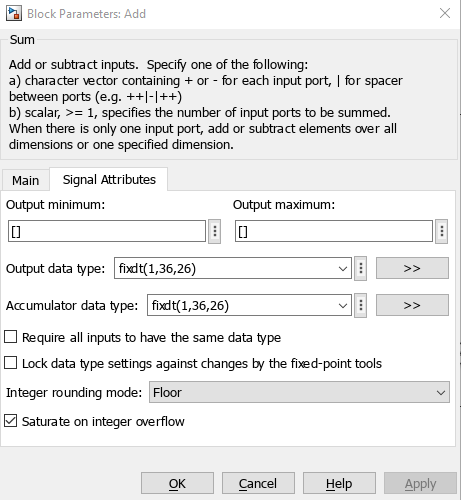
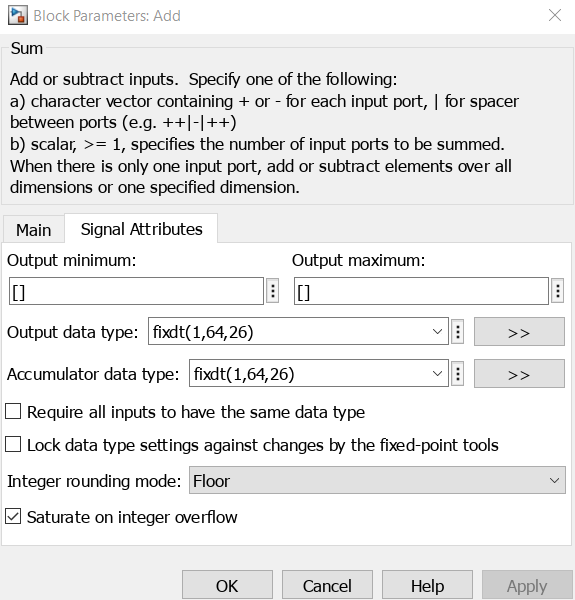
Correct PID fixed-point configuration documentation

Changed region(s): [[0.0, 0.12, 1.0, 0.9], [0.3037, 0.93, 1.0, 1.0], [0.0, 0.0, 0.3341, 0.09]]

diff --git a/examples/PIDaw/README.md b/examples/PIDaw/README.md
@@ -14,7 +14,7 @@ Mediante HDL Verifier se valida el controlador en una FPGA usando FPGA-in-the-Lo
 ## Inicio rápido
 
 1. Abrir el modelo `PID_antiwidup.slx` en MATLAB.
-2. Verificar que el controlador utilice tipos de datos en punto fijo `fixdt(1,64,26)` en entradas y señales principales.
+2. Verificar que las entradas y señales del controlador utilicen el tipo de punto fijo `fixdt(1,64,26)`.
 3. Ejecutar la simulación del lazo cerrado en Simulink.
 4. Generar el HDL del subsistema PID con HDL Coder.
 5. Crear el bloque FIL con HDL Verifier y configurar la compilación en Vivado `2023.1`.
@@ -82,12 +82,9 @@ Modelo PID con anti-windup en Simulink:
 
 ## Implementación en punto fijo
 
-Para la generación de HDL es necesario que todas las entradas y bloques aritméticos trabajen con tipos enteros o de punto fijo (`int`, `fixdt` o `logical`). En este ejemplo se utilizan:
+En la implementación en punto fijo del controlador se utiliza `fixdt(1,64,26)` para las entradas, las señales y las salidas de los bloques aritméticos, incluidos los sumadores y multiplicadores.
 
-- `fixdt(1,64,26)` para entradas y señales principales.
-- `fixdt(1,36,26)` para sumadores y multiplicadores.
-
-Esto deja 10 bits para la parte entera y 26 bits para la parte fraccionaria, una distribución razonable para señales de control con amplitud moderada y necesidad de buena resolución decimal.
+Este formato tiene 64 bits con signo y 26 bits fraccionarios. Los 38 bits restantes incluyen el bit de signo y 37 bits para la magnitud entera; su resolución es $2^{-26}$ y su rango representable va desde $-2^{37}$ hasta $2^{37}-2^{-26}$.
 
 También se habilita la opción `Saturate on overflow` para evitar desbordamientos que alteren el signo o introduzcan saltos no deseados en la dinámica del controlador.
 
